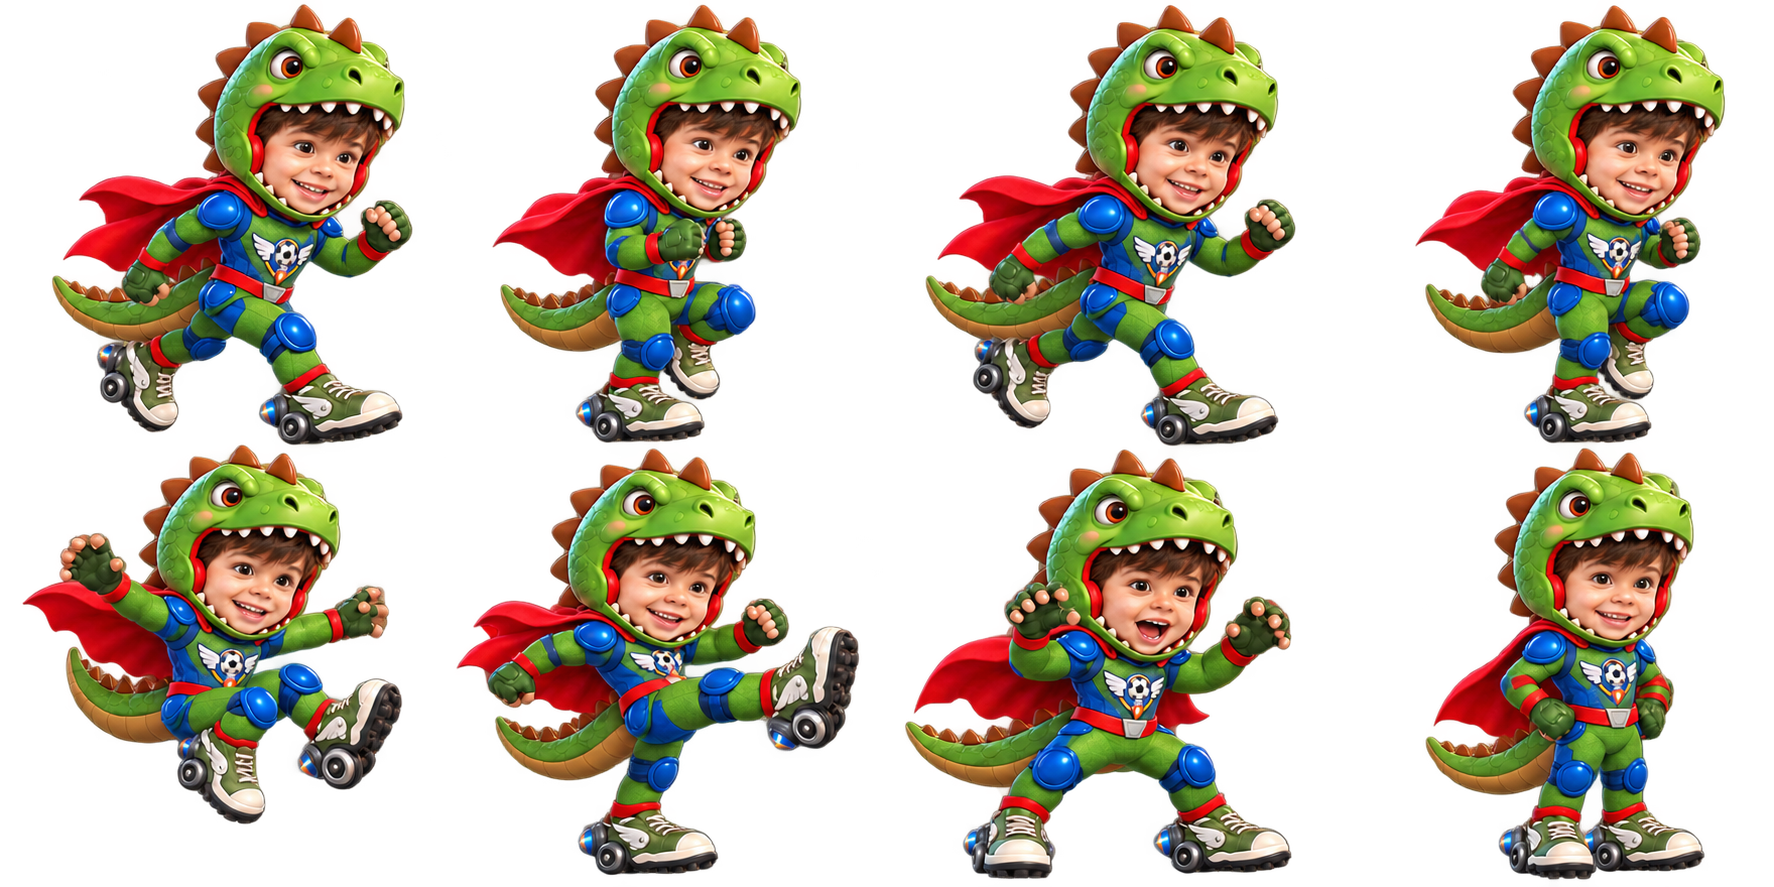
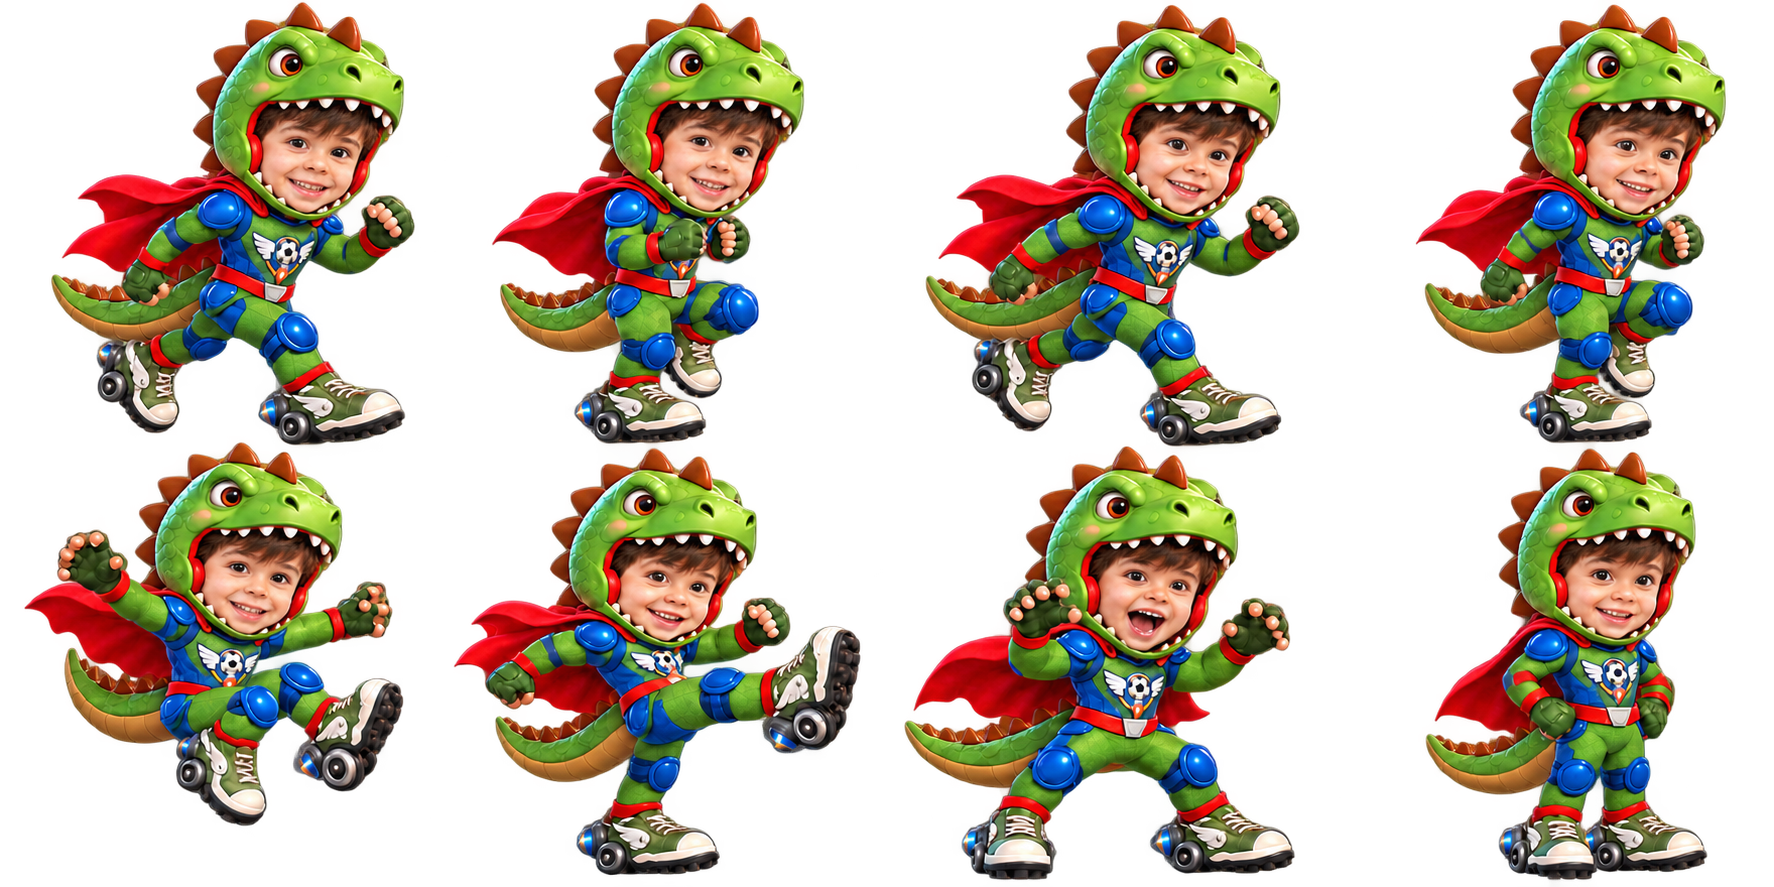
Aplica rosto frontal aprovado às oito poses do Eric

diff --git a/index.html b/index.html
@@ -434,18 +434,18 @@
        Prefira PNG com fundo transparente, corpo inteiro e olhando à direita.
        Todo HTML, CSS e JavaScript está neste arquivo; as imagens são externas.
        ================================================================ */
-    const ERIC_IMAGE_URL = 'eric.png';
+    const ERIC_IMAGE_URL = 'eric.png?v=6';
     // ANIMAÇÃO: oito imagens na folha eric-actions.png (4 colunas × 2 linhas).
     // 0–3 = passos; 4 = salto; 5 = chute; 6 = rugido; 7 = descanso.
     // Para usar só sua imagem estática, deixe ERIC_ACTIONS_URL = ''.
-    const ERIC_ACTIONS_URL = 'eric-actions.png';
+    const ERIC_ACTIONS_URL = 'eric-actions.png?v=6';
     const ericActions = new Image();
     let actionsReady=false;
     // Retângulos medidos pelo alfa do PNG. Cortam as margens transparentes,
     // preservam a escala e colocam a sola da chuteira exatamente no chão.
     const actionFrames=[
-      [52,4,360,439],[493,5,308,438],[926,5,369,438],[1416,6,309,437],
-      [23,445,379,379],[457,449,402,426],[905,450,386,429],[1426,448,278,432]
+      [52,3,362,441],[493,3,311,440],[926,5,373,439],[1416,5,310,438],
+      [25,444,378,382],[455,449,405,426],[905,447,389,433],[1426,449,281,431]
     ];
     ericActions.onload=()=>{actionsReady=ericActions.naturalWidth===1774 && ericActions.naturalHeight===887;};
     ericActions.onerror=()=>{actionsReady=false;};

diff --git a/README.md b/README.md
@@ -58,12 +58,12 @@ Para recriar a inclusão dos mesmos arquivos durante o desenvolvimento, rode `py
 Substitua `eric.png` por outra imagem PNG com fundo transparente, corpo inteiro e olhando à direita. Para usar outro nome ou caminho, procure esta linha no HTML:
 
 ```js
-const ERIC_IMAGE_URL = 'eric.png';
+const ERIC_IMAGE_URL = 'eric.png?v=6';
 ```
 
 Há comentários em português nessa seção. Para mostrar exclusivamente uma nova imagem estática, deixe `ERIC_ACTIONS_URL = ''`. Se trocar a folha de animação, ajuste os retângulos em `actionFrames`, a escala de referência e a verificação das dimensões no evento `onload`. O salto inclina levemente o personagem. Se as imagens estiverem ausentes, um desenho provisório permite continuar brincando.
 
-As imagens foram geradas com a ferramenta integrada a partir do personagem e das fotos de referência. Os prompts estão em `output/imagegen/eric-sprite-prompt.md` e `output/imagegen/eric-actions-prompts.md`.
+As imagens foram geradas com a ferramenta integrada a partir do personagem e das fotos de referência. A versão atual usa a pose frontal aprovada pelo pai como referência fixa do rosto nas oito ações, com o rosto mais voltado à câmera. O PNG de reserva também mantém essa pose aprovada. O sufixo `?v=6` evita reutilizar as imagens antigas armazenadas pelo navegador; o nome dos arquivos continua o mesmo. Os prompts do refinamento estão em `output/imagegen/eric-approved-face-prompts.md`.
 
 ## Verificação
 
